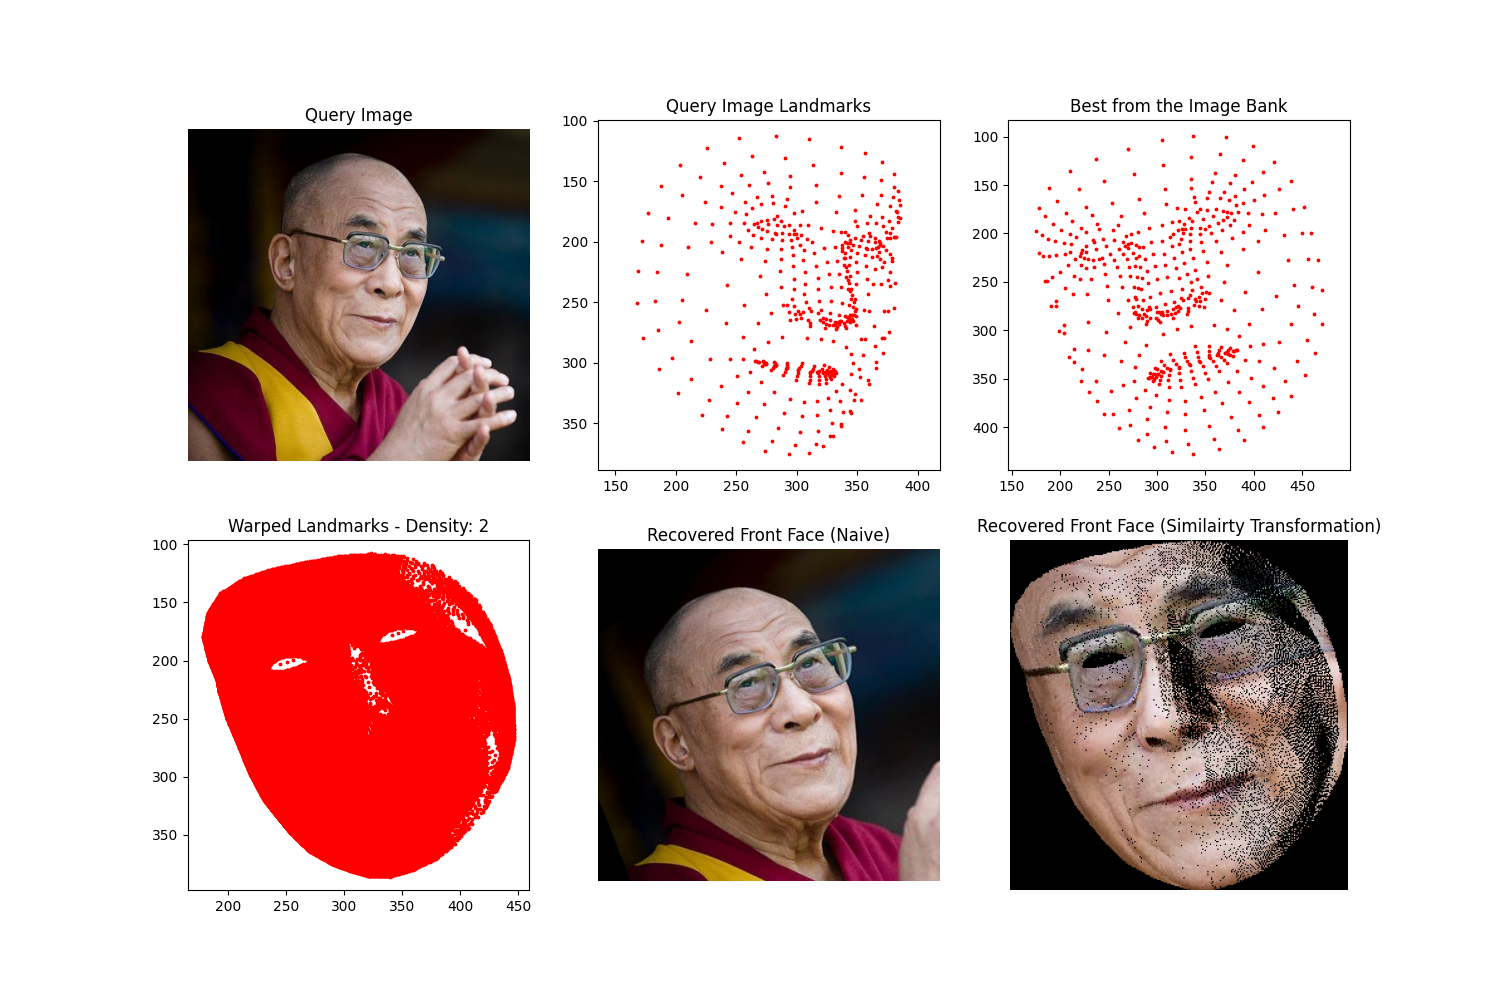
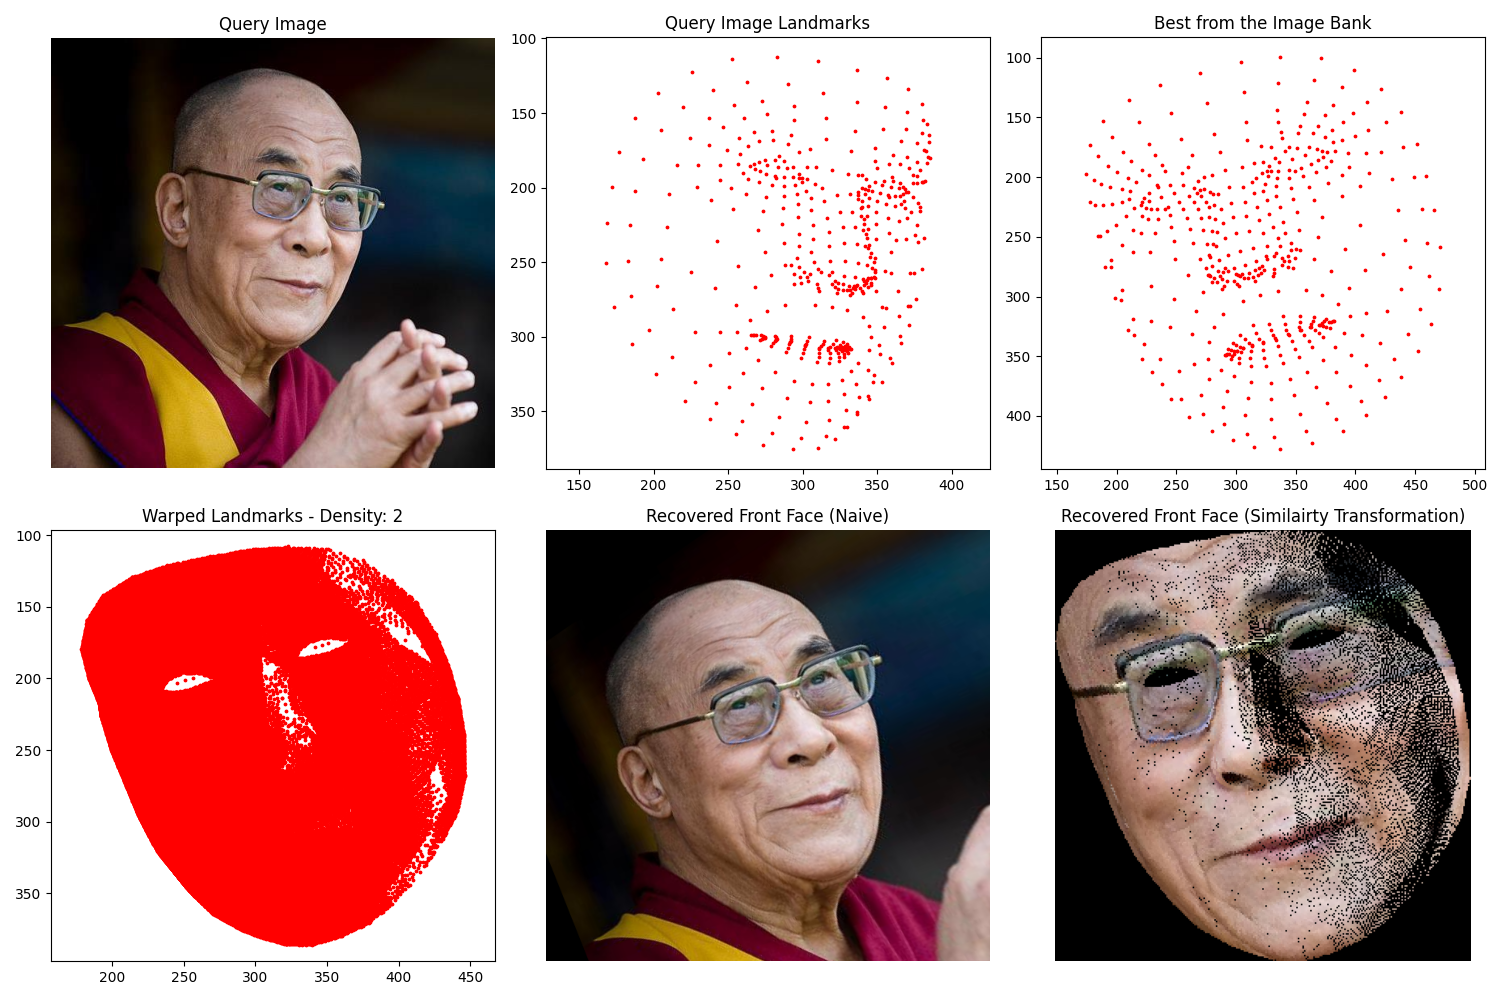
show rotation

diff --git a/main.py b/main.py
@@ -19,10 +19,16 @@ def find_best_H(query_image, image_bank_dir):
     min_error = 1e9
     best_H = None
     best_front_face_lmk = None
+    rotation = None
     for front_face_lmk in tqdm.tqdm(image_bank_paths):
         front_face_lmk = np.load(front_face_lmk)
         
-        H = find_SimilarityMatrix(query_image_lmk, front_face_lmk)
+        H, params = find_SimilarityMatrix(query_image_lmk, front_face_lmk, verbose=True)
+
+        _, _, _, _, rx, ry, rz = params
+        rx = np.rad2deg(rx)
+        ry = np.rad2deg(ry)
+        rz = np.rad2deg(rz)
 
         query_image_warped = forward_warp(query_image_lmk, H)
         error = np.mean(np.square(query_image_warped - front_face_lmk))
@@ -31,8 +37,9 @@ def find_best_H(query_image, image_bank_dir):
             min_error = error
             best_H = H
             best_front_face_lmk = front_face_lmk
+            rotation = (rx, ry, rz)
 
-    return best_H, query_image_lmk, best_front_face_lmk
+    return best_H, query_image_lmk, best_front_face_lmk, rotation
 
 def get_dense_landmarks(query_image_lmk, density):
     triangles = find_triangles()
@@ -71,7 +78,9 @@ if __name__ == "__main__":
     query_image = cv2.imread(query_image_path)
     query_image = cv2.cvtColor(query_image, cv2.COLOR_BGR2RGB)
 
-    best_H, query_image_lmk, best_front_face_lmk = find_best_H(query_image, image_bank_dir)
+    best_H, query_image_lmk, best_front_face_lmk, rotation = find_best_H(query_image, image_bank_dir)
+
+    print("Estimated Rotation: ", rotation)
 
     ##### from sparse landmarks to dense landmarks
     dense_query_image_lmk = get_dense_landmarks(query_image_lmk, density)
@@ -108,6 +117,9 @@ if __name__ == "__main__":
     if not os.path.exists(verbose_dir):
         os.makedirs(verbose_dir)
     out_path = os.path.join(verbose_dir, 'front_face_recovery.png')
+    fig.tight_layout()
     fig.savefig(out_path)
+
+    print("Results saved at: {}".format(out_path))
 
 
